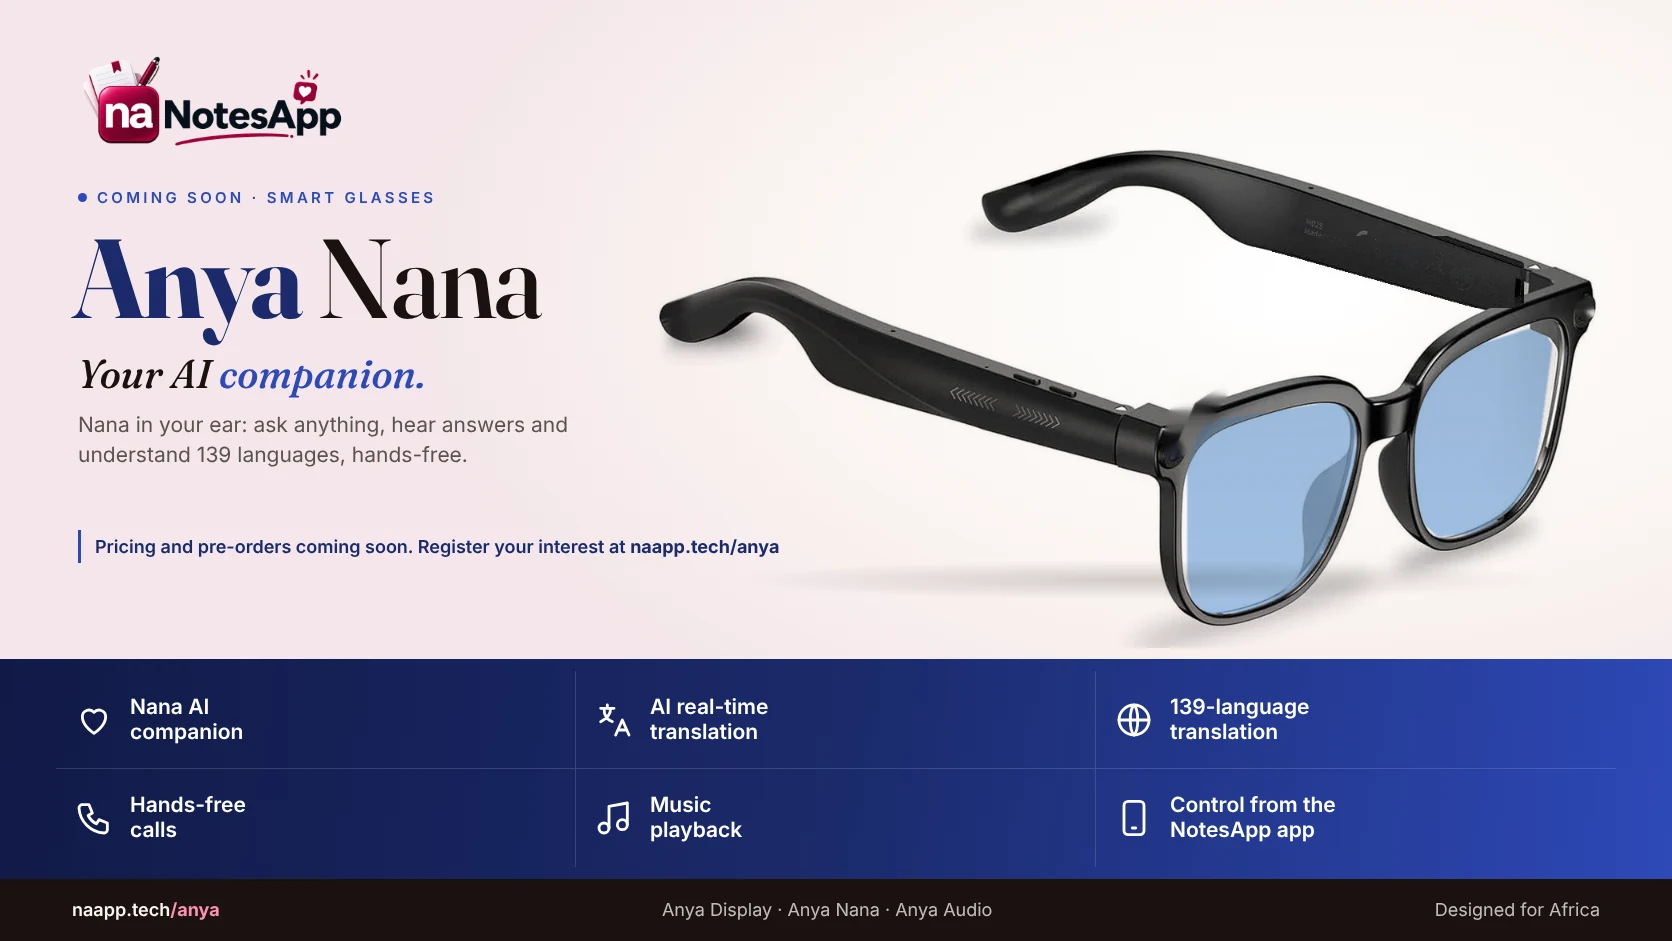
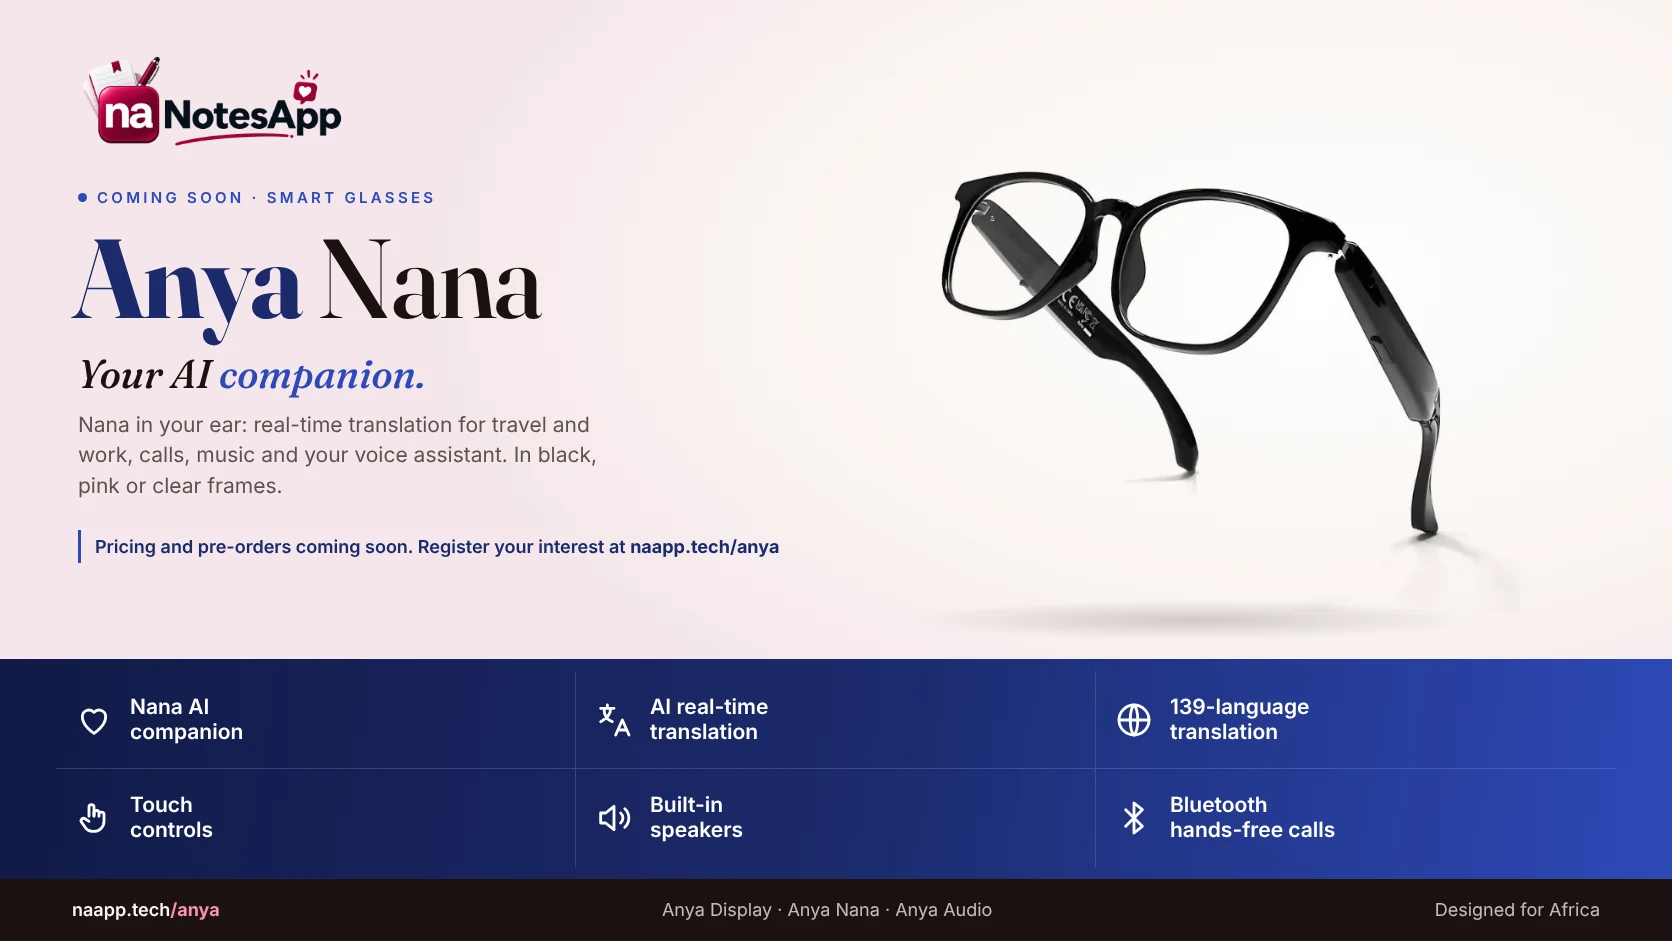
Anya Nana in black, pink or clear frames, with its features; a picture on every model card (v0.137.4) (#277)

diff --git a/app/(main)/anya/page.tsx b/app/(main)/anya/page.tsx
@@ -7,7 +7,7 @@ import { BRAND_OWNER } from "@/lib/brand-guidelines";
 export const metadata: Metadata = {
   title: "Anya smart glasses",
   description:
-    "Anya by #NotesApp: smart glasses made for Africa. Anya Display puts translation in 139 languages, transcripts, a teleprompter and 1080p HD video in your lens; Anya Nana brings Nana AI to your ear as a companion, with real-time translation in 139 languages; Anya Audio is for music and calls. Pricing and pre-orders coming soon.",
+    "Anya by #NotesApp: smart glasses made for Africa. Anya Display puts translation in 139 languages, transcripts, a teleprompter and 1080p HD video in your lens; Anya Nana brings Nana AI to your ear as a companion, with real-time translation in 139 languages, touch controls and built-in speakers, in black, pink or clear frames; Anya Audio is for music and calls. Pricing and pre-orders coming soon.",
   openGraph: { images: [{ url: "/anya/anya-display-hero.webp", width: 1672, height: 941, alt: "Anya Display smart glasses by NotesApp" }] },
 };
 
@@ -21,11 +21,12 @@ const INTEREST =
 // The hero pictures, shown one at a time with a dissolve between them (components/anya/AnyaHeroCarousel.tsx).
 const SLIDES: AnyaSlide[] = [
   { src: "/anya/anya-display-hero.webp", name: "Display", alt: "Anya Display smart glasses by NotesApp, with a side camera: AI voice assistant, AI real-time translation, 139-language translation, AI voice recording, smart image recognition, 1080p HD video, music playback and control from the NotesApp app" },
-  { src: "/anya/anya-nana-hero.webp", name: "Nana", alt: "Anya Nana smart glasses by NotesApp, with blue-tinted lenses: Nana AI companion, AI real-time translation, 139-language translation, hands-free calls, music playback and control from the NotesApp app" },
+  { src: "/anya/anya-nana-hero.webp", name: "Nana", alt: "Anya Nana smart glasses by NotesApp, black frame: Nana AI companion, AI real-time translation, 139-language translation, touch controls, built-in speakers and Bluetooth hands-free calls" },
   { src: "/anya/anya-audio-hero.webp", name: "Audio", alt: "Anya Audio smart glasses by NotesApp, with dark lenses: music and podcasts, hands-free calls, open-ear speakers and controls on the arm" },
 ];
 
-type Model = { name: string; line: string; about: string; points: string[]; tone: string };
+// Each model's picture; Nana comes in three frame colours, switched by swatches (components/anya/AnyaCasePicture.tsx).
+type Model = { name: string; line: string; about: string; points: string[]; tone: string; pictures: CaseColour[] };
 const MODELS: Model[] = [
   {
     name: "Display",
@@ -42,13 +43,27 @@ const MODELS: Model[] = [
       "A charging case with a battery display, in black or brown",
     ],
     tone: "from-crimson to-crimson-bright",
+    pictures: [{ name: "Black", swatch: "#1C1A1A", src: "/anya/anya-display-glasses.webp", alt: "Anya Display smart glasses, black frame, with the side camera" }],
   },
   {
     name: "Nana",
     line: "Your AI companion, hands-free.",
-    about: "Nana, the AI from #NotesApp, as your companion in your ear. Ask anything, hear the answer, and understand people in 139 languages without taking out your phone.",
-    points: ["Nana AI as your companion", "AI real-time translation in 139 languages", "Hands-free calls", "Music playback", "Control from the NotesApp app", "A tan leather charging case"],
+    about: "Nana, the AI from #NotesApp, as your companion in your ear. Ask anything, hear the answer, and understand people in 139 languages without taking out your phone. Made for travel, work, cycling and every day.",
+    points: [
+      "Nana AI as your companion",
+      "AI real-time translation in 139 languages",
+      "Touch controls on the arm",
+      "Built-in speakers for calls, music and your voice assistant",
+      "Bluetooth: pairs with your phone for hands-free calls",
+      "Black, pink or clear frames",
+      "A tan leather charging case",
+    ],
     tone: "from-[#1B2A6B] to-[#2E49B8]",
+    pictures: [
+      { name: "Black", swatch: "#1C1A1A", src: "/anya/anya-nana-black.webp", alt: "Anya Nana smart glasses with a black frame" },
+      { name: "Pink", swatch: "#F2C9CF", src: "/anya/anya-nana-pink.webp", alt: "Anya Nana smart glasses with a clear pink frame and white arms" },
+      { name: "Clear", swatch: "linear-gradient(135deg,#ffffff,#dfe3e8)", src: "/anya/anya-nana-clear.webp", alt: "Anya Nana smart glasses with a transparent frame and white arms" },
+    ],
   },
   {
     name: "Audio",
@@ -56,6 +71,7 @@ const MODELS: Model[] = [
     about: "Open-ear audio glasses for music, podcasts and calls, with no AI. Simple, light and private.",
     points: ["Music and podcasts", "Hands-free calls", "Open-ear speakers", "Controls on the arm", "A black leather pouch", "No AI, no camera"],
     tone: "from-[#3A0A18] to-crimson",
+    pictures: [{ name: "Black", swatch: "#111", src: "/anya/anya-audio-glasses.webp", alt: "Anya Audio smart glasses, black frame with dark lenses" }],
   },
 ];
 
@@ -146,6 +162,7 @@ export default function AnyaPage() {
                 <h3 className="mt-1 font-display text-3xl"><span className="font-bold">Anya</span> {m.name}</h3>
                 <p className="mt-1 italic text-paper/85">{m.line}</p>
               </div>
+              <AnyaCasePicture colours={m.pictures} bg="bg-white" fit="object-contain p-5" />
               <div className="flex flex-1 flex-col p-6">
                 <p className="text-slate">{m.about}</p>
                 <ul className="mt-4 space-y-2 text-sm text-ink">

diff --git a/lib/kb-articles.ts b/lib/kb-articles.ts
@@ -1315,7 +1315,7 @@ ${ADD_ONS_LINE}`),
 Anya ("eye" in Igbo) is the family of smart glasses from #NotesApp. There are three models:
 
 - **Anya Display:** a screen in the lens, a side camera, microphones and open-ear speakers, controlled from the NotesApp app on your phone. It has Nana as an AI voice assistant, AI real-time translation in 139 languages, AI voice recording with live transcripts, smart image recognition, 1080p HD video, music playback, and a teleprompter in the lens for talks, lives and videos. It comes with a leather charging case, in black or brown, that shows the battery level on the front.
-- **Anya Nana:** open-ear audio with Nana AI built in as your companion: hands-free questions and answers, AI real-time translation in 139 languages, music and calls. It comes with a tan leather charging case.
+- **Anya Nana:** open-ear audio with Nana AI built in as your companion: hands-free questions and answers, AI real-time translation in 139 languages for travel and work, touch controls on the arm, built-in speakers for calls, music and your voice assistant, and Bluetooth to pair with your phone. It comes in black, pink or clear frames. It comes with a tan leather charging case.
 - **Anya Audio:** open-ear audio for music, podcasts and calls, with no AI and no camera. It comes with a black leather pouch to carry it in (the pouch doesn't charge).
 
 Anya Display and Anya Nana charge in their cases while they're stored.

diff --git a/lib/changelog.ts b/lib/changelog.ts
@@ -11,6 +11,14 @@ export type Release = {
 
 export const CHANGELOG: Release[] = [
   {
+    version: "v0.137.4",
+    bump: "patch",
+    date: "2026-11-04",
+    changes: [
+      { kind: "changed", text: "Anya page: Anya Nana's new look and features: touch controls, built-in speakers for calls, music and your voice assistant, Bluetooth pairing and AI real-time translation, in black, pink or clear frames. Each model's card now has its picture, and Nana's has a frame colour picker." },
+    ],
+  },
+  {
     version: "v0.137.3",
     bump: "patch",
     date: "2026-11-04",

diff --git a/HANDOVER.md b/HANDOVER.md
@@ -729,6 +729,8 @@ All of these are on the team hub board with departments and dates (`lib/team-see
     the glasses removed, since those frames have cameras).
     **v0.137.3:** Audio's is a plain leather pouch (no charging); Nana's case photo shows its glasses again (the owner's choice);
     Display's case comes in black or brown (`anya-display-case-{black,brown}.webp`), switched by swatches (`components/anya/AnyaCasePicture.tsx`).
+    **v0.137.4:** Anya Nana is the owner's square-frame model in black, pink or clear (`anya-nana-{black,pink,clear}.webp`), with touch
+    controls, built-in speakers and Bluetooth; its hero uses the black frame. Every model card has its picture (Nana's with frame swatches).
 
 ## 3. How the work is done (please keep these)
 
